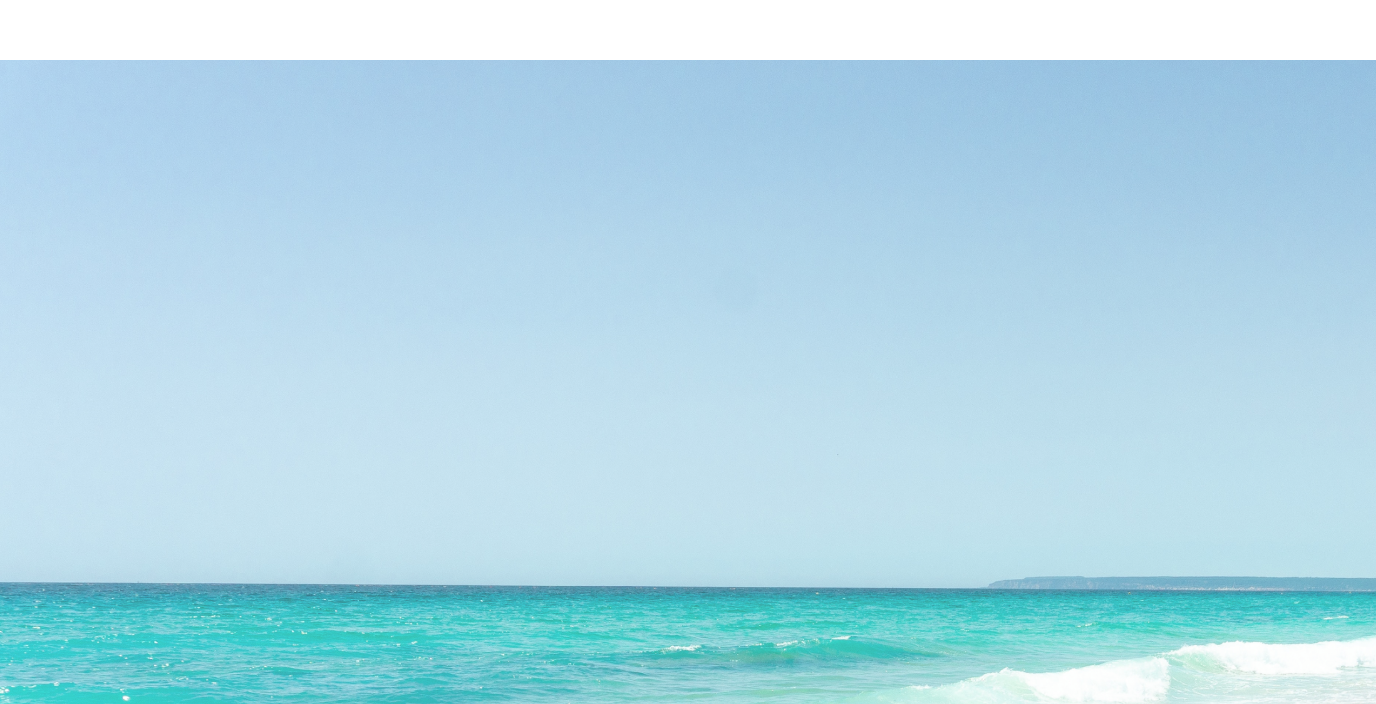
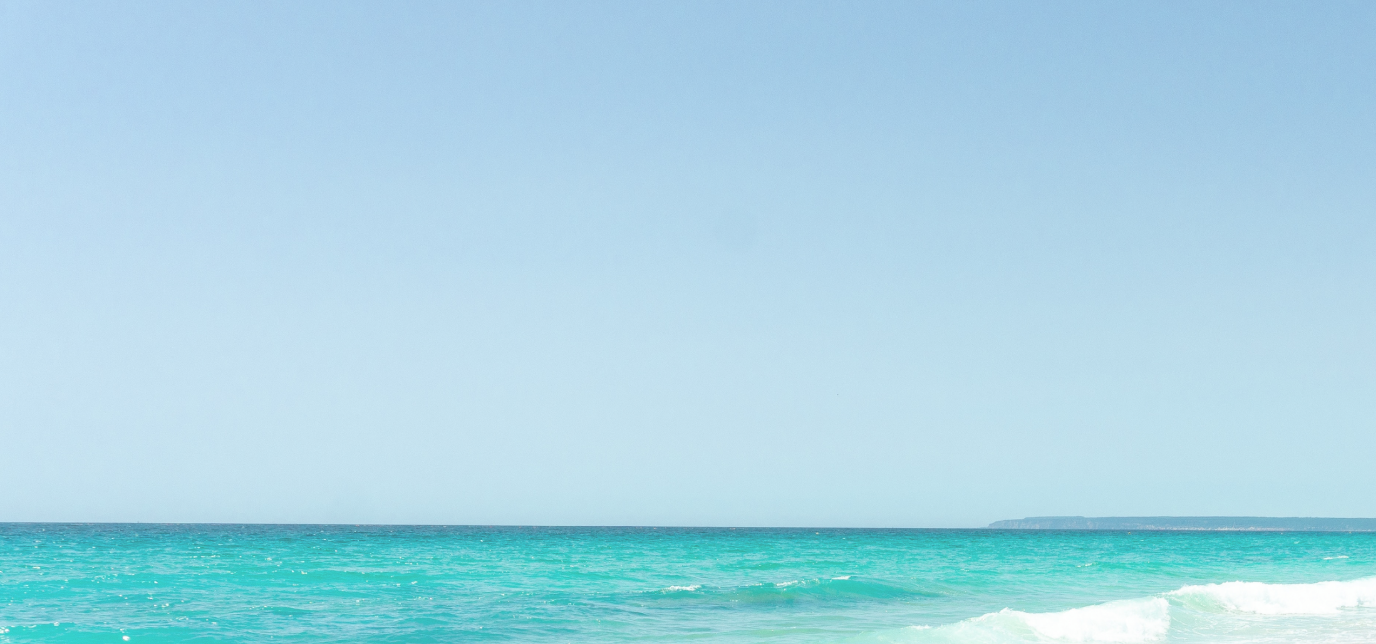
telemedicine page edits

Changed region(s): [[0.0, 0.7764, 1.0, 0.9938], [0.0, 0.0, 1.0, 0.0932]]

diff --git a/src/pages/thank-you-for-contacting-us.tsx b/src/pages/thank-you-for-contacting-us.tsx
@@ -35,7 +35,7 @@ const ThankYouContactPage: React.FC<Props> = ({ data, location }: Props) => {
                 THANK YOU!
               </h1>
               <p className="hero-text text-white text-center">
-                One of our team members will be reaching out toyou shortly
+                One of our team members will be reaching out to you shortly
               </p>
               <Link to="/"><button className="hero-btn"> Back to Home </button></Link>
             </div>

diff --git a/src/pages/thank-you.tsx b/src/pages/thank-you.tsx
@@ -35,7 +35,7 @@ const ThankYouPage: React.FC<Props> = ({ data, location }: Props) => {
                 THANK YOU!
               </h1>
               <p className="hero-text text-white text-center">
-                One of our team members will be reaching out toyou shortly
+                One of our team members will be reaching out to you shortly
               </p>
               <Link to="/"><button className="hero-btn"> Back to Home </button></Link>
             </div>

diff --git a/src/scss/gatstrap.scss b/src/scss/gatstrap.scss
@@ -8091,7 +8091,6 @@ section#premium-hero-section {
 
 section.telemedicine-hero-section-bg {
   min-height: 600px;
-  padding-top: 0;
 }
 
 section#telemedicine-hero-section {
